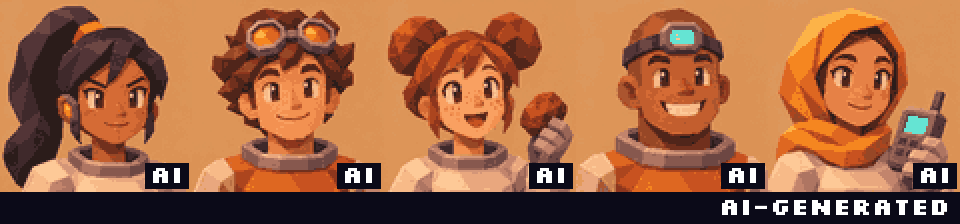
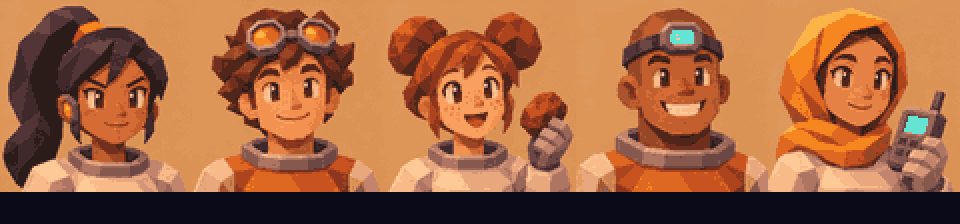
Remove per-image AI watermarks; disclose AI use at the bottom of the title screen instead
The Space Apps organizer confirmed a disclosure at the start of the slides and the bottom of the
website is enough. Art re-processed from the same originals without the label; scripts keep a
--watermark flag. README, Credits, ASSETS.md and the ai-assistance meta tag updated.

diff --git a/index.html b/index.html
@@ -5,7 +5,7 @@
     <meta name="viewport" content="width=device-width, initial-scale=1.0" />
     <title>Escape Velocity: a Mars outpost game</title>
     <meta name="description" content="Command a tiny Mars outpost: budget power between air, food, heat, radiation shelter and rocket fuel, with real NASA space-weather data. A NASA Space Apps Challenge 2026 project by Team Escape Velocity." />
-    <meta name="ai-assistance" content="Code written with AI assistance (Claude Code, Anthropic). All illustrations AI-generated with Higgsfield (GPT Image 2.6) and visibly watermarked 'AI-generated'; the live picture of the Sun is real NASA/SDO imagery. Music AI-generated with Higgsfield (ElevenLabs Music v2.5). Data comes unmodified from NASA sources (DONKI, SDO, OSDR, RadLab, JPL). See README 'Use of AI tools' and ASSETS.md." />
+    <meta name="ai-assistance" content="Code written with AI assistance (Claude Code, Anthropic). All illustrations and crew portraits AI-generated with Higgsfield (GPT Image 2.6), disclosed at the bottom of the title screen and in Credits; the live picture of the Sun is real NASA/SDO imagery. Music AI-generated with Higgsfield (ElevenLabs Music v2.5). Data comes unmodified from NASA sources (DONKI, SDO, OSDR, RadLab, JPL). See README 'Use of AI tools' and ASSETS.md." />
     <meta name="theme-color" content="#0b0a18" />
     <meta property="og:title" content="Escape Velocity" />
     <meta property="og:description" content="A retro Mars outpost game about real engineering trade-offs, powered by real NASA data." />

diff --git a/src/ui/credits.ts b/src/ui/credits.ts
@@ -15,7 +15,7 @@ export function renderCredits(): HTMLElement[] {
       'ul',
       { class: 'clean' },
       h('li', null, h('b', null, 'Code: '), 'written with AI assistance (Claude Code by Anthropic) and reviewed by our team. Each source file says so at the top.'),
-      h('li', null, h('b', null, 'Images: '), 'all illustrations, including the crew portraits, are AI-generated with Higgsfield (GPT Image 2.6) and carry a visible "AI-generated" watermark (an "AI" tag on each small crew portrait). The crew members are made up. The one exception is the picture of the Sun: it is a real NASA photo (see below).'),
+      h('li', null, h('b', null, 'Images: '), 'all illustrations, including the crew portraits, are AI-generated with Higgsfield (GPT Image 2.6). The crew members are made up. The one exception is the picture of the Sun: it is a real NASA photo (see below).'),
       h('li', null, h('b', null, 'Music: '), 'AI-generated with Higgsfield (ElevenLabs Music v2.5). Sound effects are made in code.'),
       h('li', null, h('b', null, 'Data: '), 'all space-weather, radiation and biology data comes straight from NASA sources (listed below and in the Science Log). Our AI-assisted scripts fetch and reformat it; they never invent values.'),
       h('li', null, 'Every generated asset, with its prompt, is listed in ASSETS.md in our code repository.'),

diff --git a/src/ui/app.ts b/src/ui/app.ts
@@ -425,6 +425,12 @@ export class App {
           `Today Mars is about ${Math.round(lt.distanceKm / 1e6)} million km from Earth, so messages take about ${Math.round(lt.oneWayMinutes)} minutes to arrive (approximate). `,
           counts ? `${this.feed.status === 'live' ? 'Live' : 'Archived'} NASA data: ${counts.X} X-class and ${counts.M} M-class solar flares in the last 30 days.` : '',
         ),
+        h(
+          'p',
+          { class: 'ai-disclosure' },
+          'AI disclosure: the illustrations, crew portraits and music in this game are AI-generated (Higgsfield), and the code was written with AI assistance (Claude Code). The picture of the Sun is real NASA imagery, and all data comes from NASA. ',
+          h('button', { class: 'linklike', onclick: () => this.showCredits() }, 'Details'),
+        ),
       ),
       { label: 'Escape Velocity title screen' },
     );

diff --git a/src/ui/style.css b/src/ui/style.css
@@ -565,3 +565,7 @@ table.mc-players td { vertical-align: middle; }
 .today-event { box-shadow: inset 0 0 0 3px var(--amber); }
 .today-calm { box-shadow: inset 0 0 0 3px var(--green); }
 @media (max-width: 900px) { .tray-actions { margin-left: 0; width: 100%; } }
+
+/* ---------- AI disclosure (title screen footer) ---------- */
+.ai-disclosure { font-size: 13px; color: var(--muted); margin: 14px auto 0; max-width: 640px; line-height: 1.4; border-top: 2px dashed var(--line); padding-top: 10px; }
+.linklike { background: none; border: none; padding: 0; color: var(--cyan); text-decoration: underline; cursor: pointer; font: inherit; }

diff --git a/scripts/process-art.py b/scripts/process-art.py
@@ -1,5 +1,8 @@
 # Written with AI assistance (Claude Code). See README "Use of AI tools".
-"""Turn raw AI-generated images into small retro game art with a baked-in watermark.
+"""Turn raw AI-generated images into small retro game art.
+
+No per-image watermark by default: the Space Apps organizer confirmed a disclosure at the start of
+the slides and at the bottom of the website is enough. Pass --watermark to bake one in anyway.
 
 Usage:
     python3 -I scripts/process-art.py <raw_dir> [out_dir]
@@ -29,6 +32,7 @@ DEFAULT_OUT = os.path.join(ROOT, "public", "art")
 
 MAX_BYTES = 200 * 1024
 WATERMARK = "AI-generated"
+WATERMARK_ON = "--watermark" in sys.argv
 WM_BG = (0x0B, 0x0A, 0x18, 191)  # #0b0a18 at ~75% alpha
 WM_FG = (255, 255, 255, 255)
 WM_PAD = 4
@@ -86,7 +90,7 @@ def render(src, size, colors):
     # cyan fuel stripe) that plain median cut tends to merge into the browns.
     poster = small.quantize(colors=colors, method=Image.MEDIANCUT, kmeans=3, dither=Image.NONE)
     big = poster.convert("RGB").resize((size[0] * 2, size[1] * 2), Image.NEAREST)
-    marked = bake_watermark(big)
+    marked = bake_watermark(big) if WATERMARK_ON else big
     # Re-palettize onto: the posterized colors, the same colors under the watermark
     # box, and a few greys for the anti-aliased label. Art colors stay exact.
     flat = poster.getpalette()[: 3 * colors]
@@ -119,8 +123,9 @@ def process(path, out_dir):
 def main():
     if len(sys.argv) < 2:
         sys.exit(__doc__)
-    raw_dir = sys.argv[1]
-    out_dir = sys.argv[2] if len(sys.argv) > 2 else DEFAULT_OUT
+    args = [a for a in sys.argv[1:] if not a.startswith('--')]
+    raw_dir = args[0]
+    out_dir = args[1] if len(args) > 1 else DEFAULT_OUT
     os.makedirs(out_dir, exist_ok=True)
     files = sorted(
         f for f in os.listdir(raw_dir) if f.lower().endswith((".png", ".jpg", ".jpeg", ".webp"))

diff --git a/scripts/process-portraits.py b/scripts/process-portraits.py
@@ -41,6 +41,7 @@ CELL = LOW * SCALE
 COLORS = 40
 MAX_BYTES = 60 * 1024
 
+WATERMARK_ON = "--watermark" in sys.argv  # off by default (disclosure lives on the site and slides)
 STRIP_H = 32  # bottom strip that carries the full "AI-generated" text
 WM_BG = (0x0B, 0x0A, 0x18)  # same navy as the game UI and process-art.py
 WM_FG = (255, 255, 255)
@@ -129,6 +130,13 @@ def build_sheet(src, cols, rows, use, colors):
     sheet.paste(big, (0, 0))
     draw = ImageDraw.Draw(sheet)
 
+    if not WATERMARK_ON:
+        flat = poster.getpalette()[: 3 * colors]
+        pal = [tuple(flat[i : i + 3]) for i in range(0, len(flat), 3)] + [WM_BG]
+        pal_img = Image.new("P", (1, 1))
+        pal_img.putpalette([v for c in pal for v in c] + [0] * (768 - 3 * len(pal)))
+        return sheet.quantize(palette=pal_img, dither=Image.NONE), n
+
     # "AI" corner tag on every portrait: Silkscreen at 24 px is 3 screen pixels per font pixel.
     tag_font = load_font(24)
     l, t, tw, th = text_box(draw, tag_font, "AI")
@@ -175,8 +183,9 @@ def process(n, path, out_dir):
 def main():
     if len(sys.argv) < 2:
         sys.exit(__doc__)
-    raw_dir = sys.argv[1]
-    out_dir = sys.argv[2] if len(sys.argv) > 2 else DEFAULT_OUT
+    args = [a for a in sys.argv[1:] if not a.startswith('--')]
+    raw_dir = args[0]
+    out_dir = args[1] if len(args) > 1 else DEFAULT_OUT
     os.makedirs(out_dir, exist_ok=True)
     for n in sorted(SHEETS):
         path = os.path.join(raw_dir, f"crew-{n}.png")

diff --git a/README.md b/README.md
@@ -89,7 +89,7 @@ src/room/     Mission Control: shared protocol, pure room rules (stations, legal
 src/ui/room/  Mission Control screens: join/create, the teacher's projector view and the student's station view
 api/          spaceweather.ts: the DONKI proxy handler (run by the droplet's server)
 deploy/       droplet server (server.ts), Caddyfile, systemd service, one-time setup script
-scripts/      fetch-data.mjs (build-time data snapshots), process-art.py (retro art processing + watermark), process-portraits.py (crew portrait sheets + watermark)
+scripts/      fetch-data.mjs (build-time data snapshots), process-art.py (retro art processing), process-portraits.py (crew portrait sheets); both take --watermark to bake a label in
 ```
 
 ## Run it
@@ -123,10 +123,10 @@ Optional: put `NASA_API_KEY=...` in `/etc/escape-velocity.env` on the droplet to
 We used AI tools, and here is exactly where and how:
 
 - **Code:** written with AI assistance (Claude Code by Anthropic), directed and reviewed by our team. Every source file has a header comment saying so.
-- **Images:** every illustration (title art, event cards, Real Science art, crew portraits) was generated with **Higgsfield** (GPT Image 2.6), then downscaled and palette-reduced for the retro look. **Every image carries a visible "AI-generated" watermark**, baked into the image file. Crew portraits come in one sprite sheet per crew: each face has a baked-in "AI" tag and each sheet a full "AI-generated" label. The crew members are fictional. The one exception is the live picture of the Sun, which is real NASA/SDO imagery loaded from NASA and credited as such.
+- **Images:** every illustration (title art, event cards, Real Science art, crew portraits) was generated with **Higgsfield** (GPT Image 2.6), then downscaled and palette-reduced for the retro look. The Space Apps organizer confirmed that a clear disclosure (at the start of our slides and at the bottom of the website) is enough, so images carry no per-image watermark; the title screen's footer and the Credits say which art is AI-generated. The one exception is the live picture of the Sun, which is real NASA/SDO imagery loaded from NASA and credited as such.
 - **Music:** generated with **Higgsfield** (ElevenLabs Music v2.5); credited here, in the in-game Credits screen, and in each MP3's metadata. Sound effects are synthesized in code.
 - **Data:** all data comes from NASA sources. AI-assisted scripts fetch and reformat it, but never invent or change values.
-- **Disclosure in the product:** an `ai-assistance` meta tag in `index.html`, an "AI tools" section in the in-game Credits, watermarks on all images, and [`ASSETS.md`](ASSETS.md), which lists every generated asset with its tool, model and full prompt.
+- **Disclosure in the product:** an `ai-assistance` meta tag in `index.html`, an "AI tools" section in the in-game Credits, a disclosure line at the bottom of the title screen, the disclosure on the pitch deck's first slide, and [`ASSETS.md`](ASSETS.md), which lists every generated asset with its tool, model and full prompt.
 - No NASA logos, flags, mission patches or insignia appear in any prompt or asset.
 
 ## Credits

diff --git a/ASSETS.md b/ASSETS.md
@@ -1,5 +1,7 @@
 # Escape Velocity: Asset Credits
 
+> **Update (Nov 14, 2026):** the Space Apps organizer confirmed that a disclosure at the start of the slides and at the bottom of the website is enough, so the shipped images no longer carry a per-image watermark. They were re-processed from the same originals with the same steps, minus the watermark (`scripts/process-art.py` and `scripts/process-portraits.py` take `--watermark` to add it back). Disclosure now lives in the title screen footer, the in-game Credits, the README and the pitch deck's first slide.
+
 All images and music in this game were made with AI. This page lists every shipped file, the tool and model used, the exact prompt, and what we did to it afterwards.
 
 - **Images:** every image in `public/art/` was generated with **Higgsfield** using the **GPT Image 2.6** model (`gpt_image_2_6`, quality `high`, resolution `1k`, aspect ratio 16:9). The title image was made first. It was then given to the model as a style reference for all the other images so the set looks consistent. Each shipped image has a visible **"AI-generated"** watermark baked into the bottom-right corner by `scripts/process-art.py`. The crew portrait sheets (`public/art/crew-*.png`, see [Crew portraits](#crew-portraits)) use the same model and title reference, are processed by `scripts/process-portraits.py`, and carry an **"AI"** tag on every portrait plus a full **"AI-generated"** label along the bottom of each sheet.
